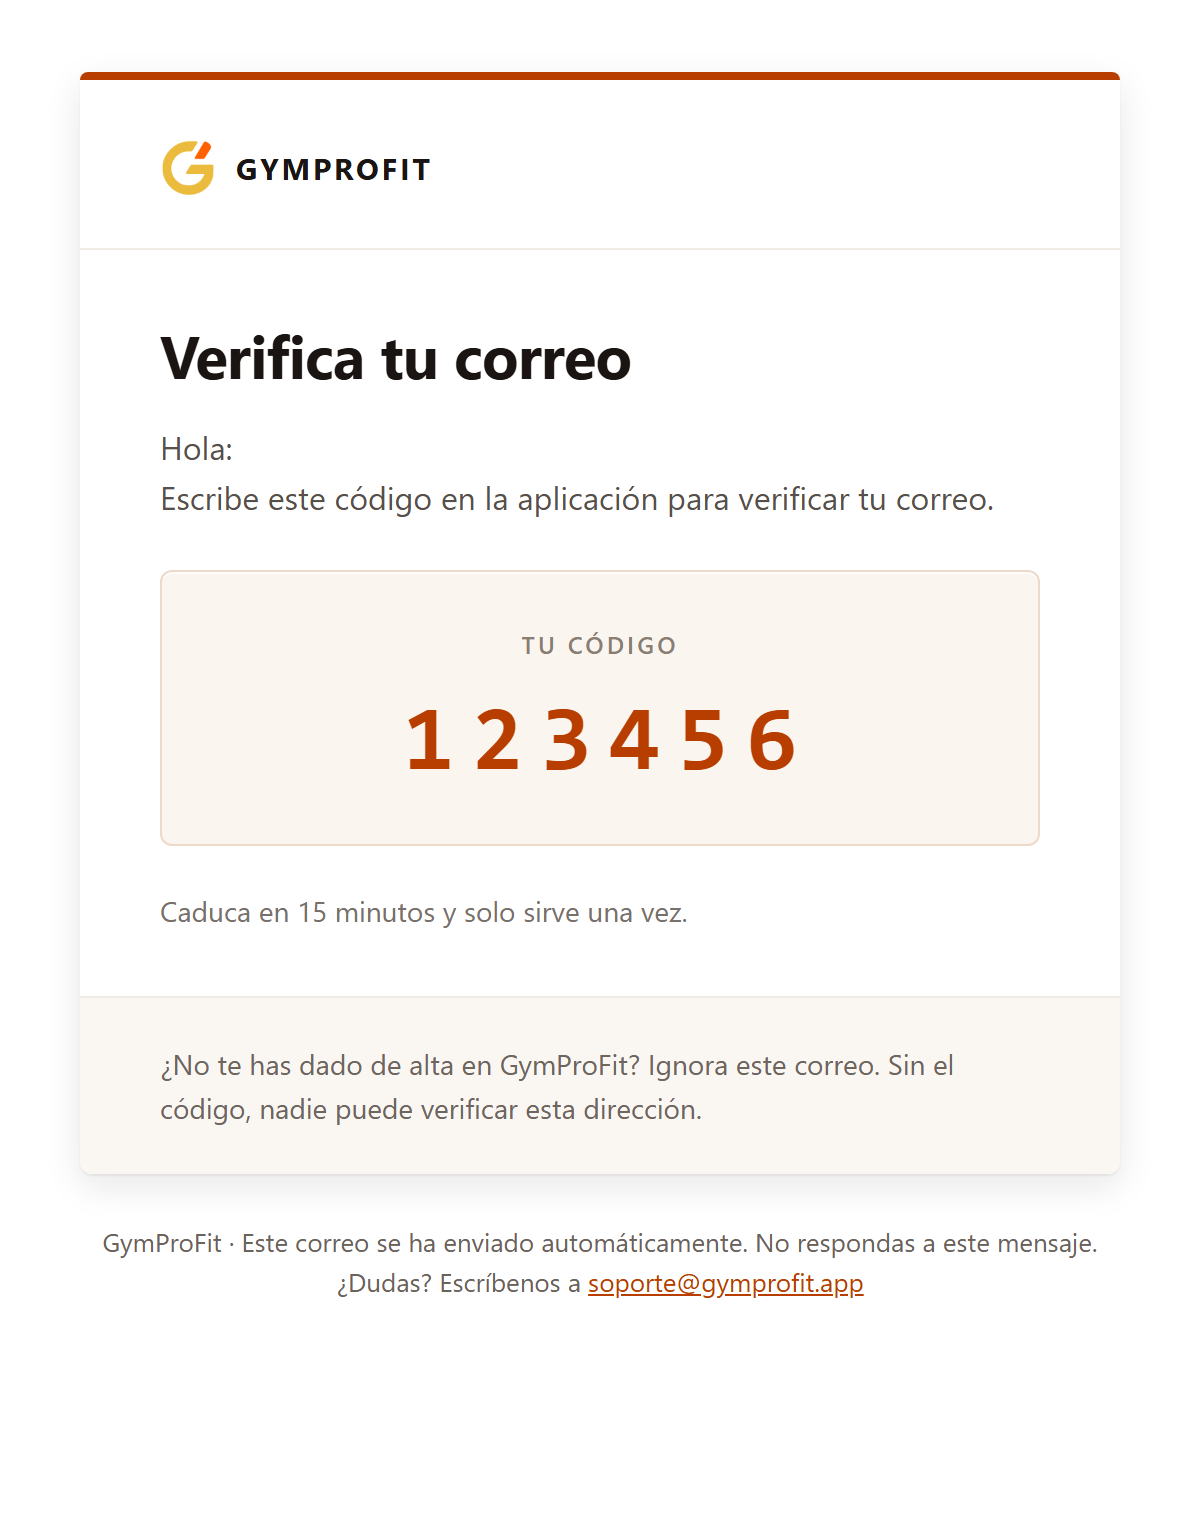
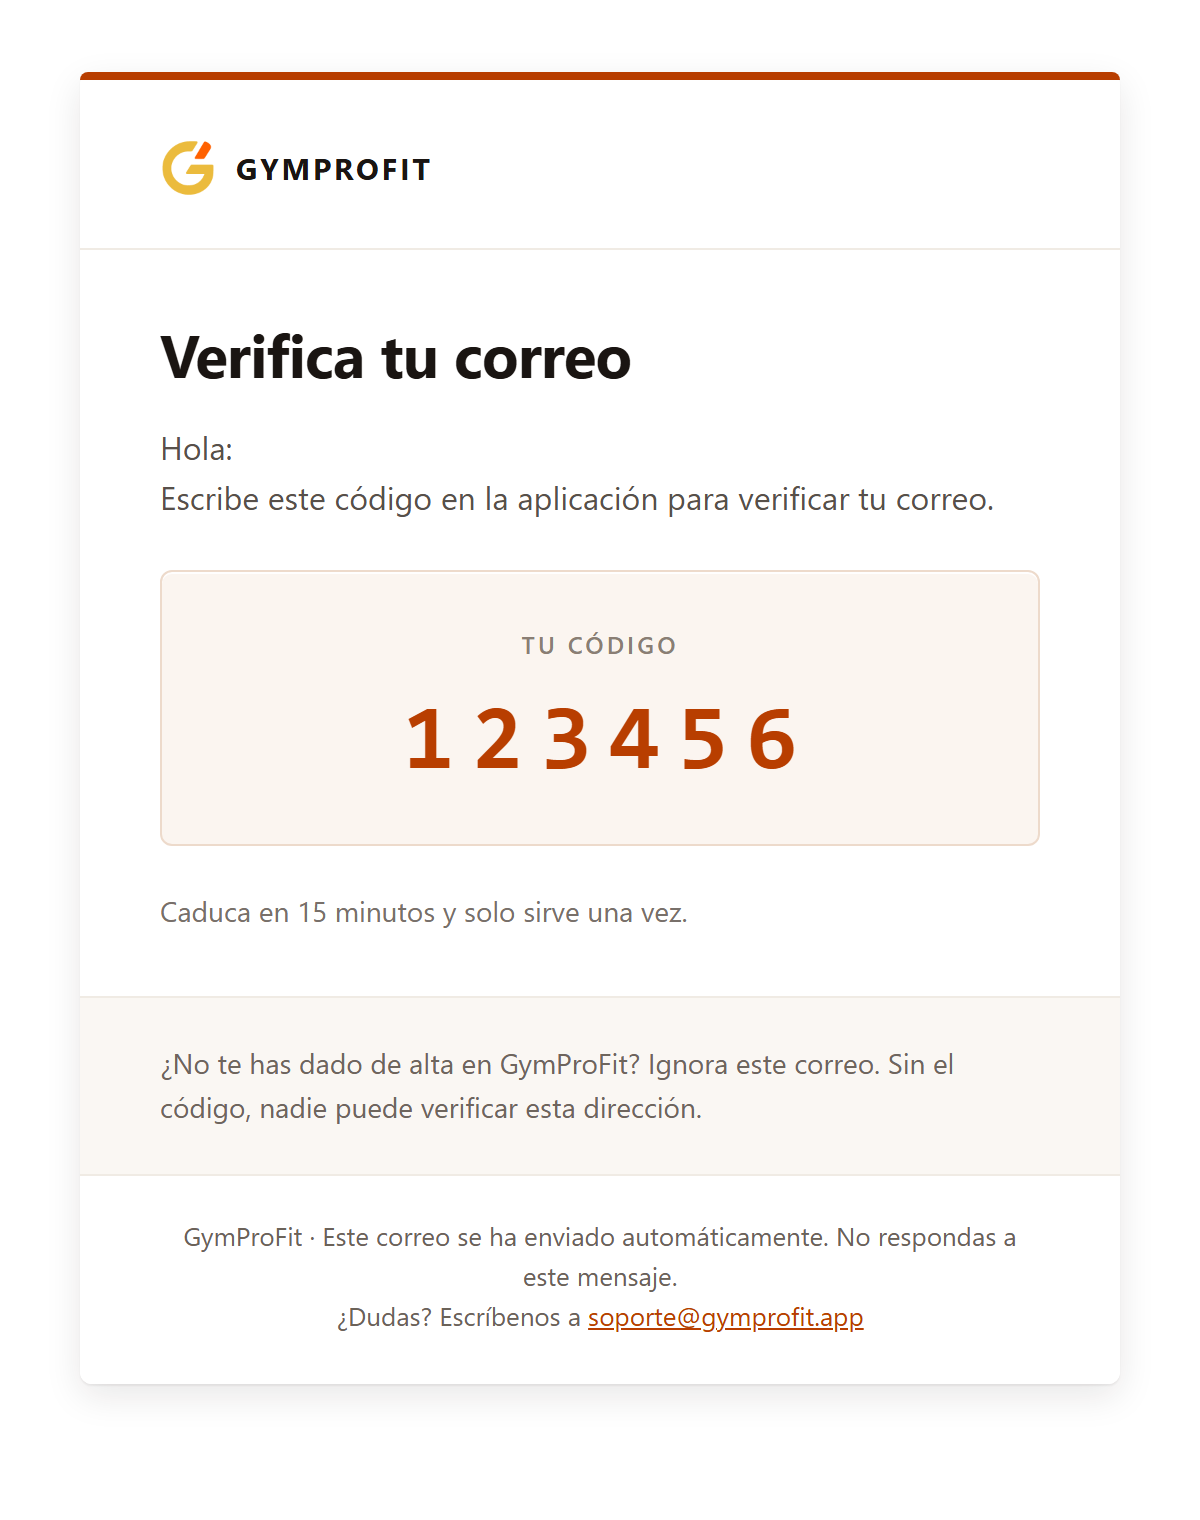
fix(api): el pie del correo, dentro de la tarjeta blanca
Fuera de la tarjeta, el pie quedaba sobre el fondo exterior, y Gmail en
modo oscuro lo pinta #1F1F1F: el gris del pie se quedaba en 2,8:1 y el
enlace de soporte en 2,9:1. Dentro, tras una línea de 1 px, el fondo es
el blanco de la tarjeta, que Gmail no oscurece: #6B6259 da 6,0:1 y el
naranja 5,6:1, AA a 13 px. El fondo exterior no cambia.

El pie pasa a ser la última fila, así que se lleva las esquinas
inferiores que antes tenía la franja de cierre.

diff --git a/api/gymprofit-api/src/main/java/com/gymprofit/api/service/email/PlantillaCorreo.java b/api/gymprofit-api/src/main/java/com/gymprofit/api/service/email/PlantillaCorreo.java
@@ -107,7 +107,7 @@ final class PlantillaCorreo {
     // ========================================================================
 
     /**
-     * Pie del correo, fuera de la tarjeta. Hay dos variantes y la diferencia no es estética:
+     * Pie del correo, dentro de la tarjeta. Hay dos variantes y la diferencia no es estética:
      * <ul>
      *   <li><b>Transaccional</b> — sin enlace de baja. Es el correo que el usuario ha
      *       provocado con una acción suya: recuperación, verificación, borrado de cuenta,
@@ -332,7 +332,7 @@ final class PlantillaCorreo {
         return StringUtils.hasText(html) ? render(FRANJA, Map.of("TEXTO", html)) : "";
     }
 
-    /** Pie, ya fuera de la tarjeta. El enlace de baja solo aparece en la variante comercial. */
+    /** Pie, la última fila de la tarjeta. El enlace de baja solo aparece en la variante comercial. */
     // El pie: aviso de envío automático y, desde el lote 24, a quién escribir con dudas.
     private static String pieHtml(Pie pie, Idioma idioma) {
         boolean en = idioma == Idioma.EN;
@@ -372,11 +372,17 @@ final class PlantillaCorreo {
 
     /**
      * La envoltura: barra de acento, cabecera con la marca, zona de contenido, franja de
-     * cierre y pie. Tres tablas encajadas —fondo a todo el ancho, columna de 600 px,
+     * cierre y pie, todo dentro de la tarjeta. Tres tablas encajadas —fondo a todo el ancho, columna de 600 px,
      * tarjeta de 520 px— porque centrar con márgenes automáticos no funciona en Outlook.
      * <p>
      * La cabecera lleva el logo real, la G (lote 24), con alt «GymProFit» para quien no
      * cargue imágenes; el nombre sigue al lado en texto.
+     * <p>
+     * El pie va DENTRO de la tarjeta blanca, tras una línea de 1 px (GP-266). Fuera, el gris
+     * quedaba sobre el fondo exterior, y Gmail en modo oscuro sustituye ese fondo por
+     * #1F1F1F: el gris del pie se quedaba en 2,8:1 y el enlace en 2,9:1. Sobre el blanco de
+     * la tarjeta, que Gmail no oscurece, #6B6259 da 6,0:1 y el naranja del enlace 5,6:1, AA
+     * a 13 px los dos. Es la última fila, así que lleva las esquinas inferiores.
      */
     private static final String ENVOLTURA = """
             <!DOCTYPE html>
@@ -412,10 +418,10 @@ final class PlantillaCorreo {
             {{CONTENIDO}}
             </td></tr>
             {{FRANJA}}
+            <tr><td align="center" style="padding:20px 40px 24px;background-color:#FFFFFF;border-top:1px solid #F0EBE4;border-radius:0 0 6px 6px;font-family:{{FUENTE}};font-size:13px;line-height:20px;color:#6B6259;text-align:center;">{{PIE}}</td></tr>
             </table>
             <!--[if mso]></td></tr></table><![endif]-->
             </td></tr>
-            <tr><td align="center" style="padding:24px 16px 0;font-family:{{FUENTE}};font-size:13px;line-height:20px;color:#6B6259;text-align:center;">{{PIE}}</td></tr>
             </table>
             <!--[if mso]></td></tr></table><![endif]-->
             </td></tr>
@@ -460,8 +466,8 @@ final class PlantillaCorreo {
             </table>
             """.replace("FUENTE_", FUENTE);
 
-    /** Franja de cierre, con su línea de 1 px y las esquinas inferiores de la tarjeta. */
+    /** Franja de cierre, con su línea de 1 px. Las esquinas inferiores son del pie, que va debajo. */
     private static final String FRANJA = """
-            <tr><td style="padding:22px 40px;background-color:#FAF7F3;border-top:1px solid #F0EBE4;border-radius:0 0 6px 6px;font-family:FUENTE_;font-size:14px;line-height:22px;color:#6E655D;">{{TEXTO}}</td></tr>
+            <tr><td style="padding:22px 40px;background-color:#FAF7F3;border-top:1px solid #F0EBE4;font-family:FUENTE_;font-size:14px;line-height:22px;color:#6E655D;">{{TEXTO}}</td></tr>
             """.replace("FUENTE_", FUENTE);
 }

diff --git a/api/gymprofit-api/src/test/java/com/gymprofit/api/service/email/PlantillaCorreoTest.java b/api/gymprofit-api/src/test/java/com/gymprofit/api/service/email/PlantillaCorreoTest.java
@@ -115,6 +115,53 @@ class PlantillaCorreoTest {
         assertThat(html).contains("Darse de baja").contains("href=\"" + BAJA + "\"");
     }
 
+    /**
+     * El pie va dentro de la tarjeta blanca (GP-266). Fuera de ella quedaba sobre el fondo
+     * exterior, que Gmail en modo oscuro cambia por #1F1F1F, y ahí el gris del pie no se
+     * leía. Se comprueba la estructura —el pie es la última fila de la tarjeta, la tercera
+     * tabla anidada— y que su gris y el naranja del enlace dan AA sobre blanco.
+     */
+    @Test
+    void elPie_vaDentroDeLaTarjetaConContrasteAA() {
+        String html = PlantillaCorreo.renderizar(
+                "Hola", "Verifica tu correo",
+                PlantillaCorreo.Aviso.de("Texto."), "Franja.",
+                PlantillaCorreo.Pie.comercial(BAJA))
+                // Las ghost tables de Outlook no cuentan para el anidamiento real.
+                .replaceAll("(?s)<!--\\[if mso].*?<!\\[endif]-->", "");
+
+        int pie = html.indexOf(PlantillaCorreo.CORREO_SOPORTE);
+        String antes = html.substring(0, pie);
+        int abiertas = antes.split("<table", -1).length - 1;
+        int cerradas = antes.split("</table>", -1).length - 1;
+        assertThat(abiertas - cerradas).as("tablas abiertas alrededor del pie").isEqualTo(3);
+        // Y después del pie la tarjeta se cierra sin más filas.
+        String despues = html.substring(pie);
+        assertThat(despues.substring(0, despues.indexOf("</table>"))).doesNotContain("<tr");
+
+        String celda = antes.substring(antes.lastIndexOf("<td"));
+        assertThat(celda).contains("background-color:#FFFFFF").contains("border-top:1px solid");
+        String gris = celda.replaceAll("(?s).*;color:(#[0-9A-Fa-f]{6}).*", "$1");
+        assertThat(contraste(gris, "#FFFFFF")).as("gris del pie sobre blanco").isGreaterThanOrEqualTo(4.5);
+        assertThat(contraste("#B83E00", "#FFFFFF")).as("enlace del pie sobre blanco").isGreaterThanOrEqualTo(4.5);
+    }
+
+    /** Contraste WCAG 2 entre dos colores #RRGGBB. */
+    private static double contraste(String a, String b) {
+        double la = luminancia(a);
+        double lb = luminancia(b);
+        return (Math.max(la, lb) + 0.05) / (Math.min(la, lb) + 0.05);
+    }
+
+    private static double luminancia(String hex) {
+        double[] c = new double[3];
+        for (int i = 0; i < 3; i++) {
+            double v = Integer.parseInt(hex.substring(1 + 2 * i, 3 + 2 * i), 16) / 255.0;
+            c[i] = v <= 0.03928 ? v / 12.92 : Math.pow((v + 0.055) / 1.055, 2.4);
+        }
+        return 0.2126 * c[0] + 0.7152 * c[1] + 0.0722 * c[2];
+    }
+
     // --- Las tres formas sobre la misma envoltura ---------------------------
 
     /**
